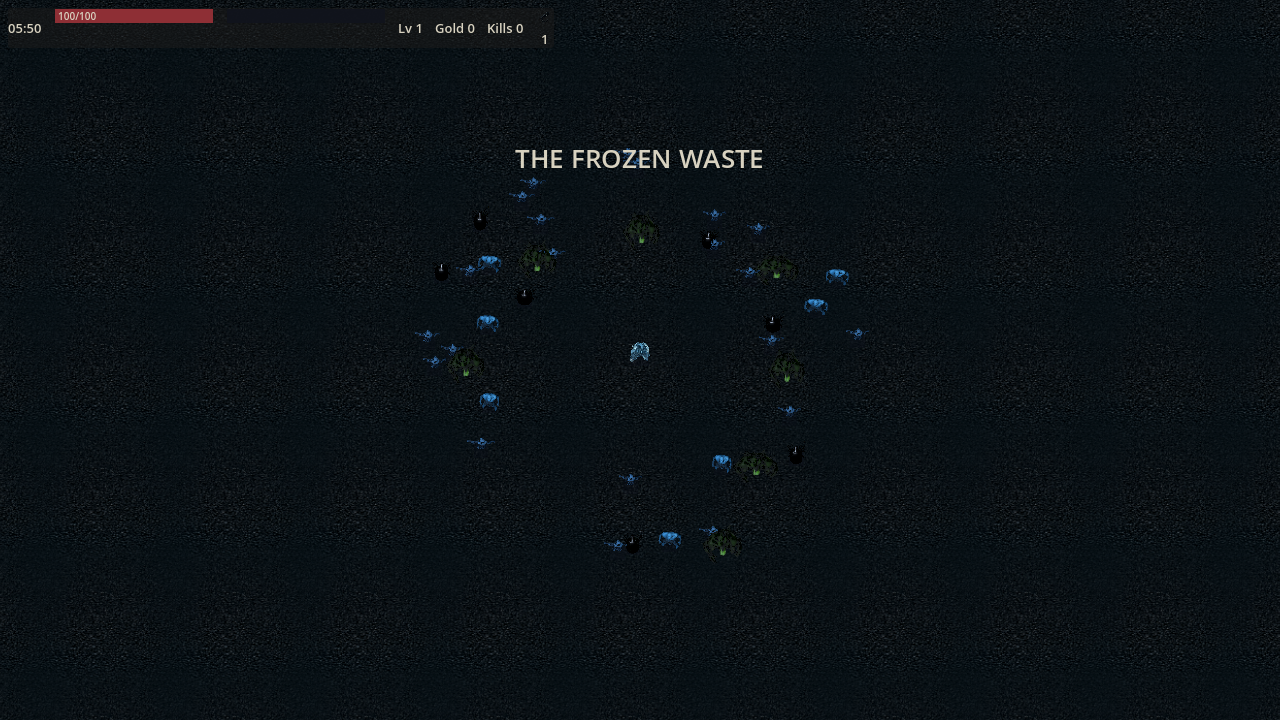
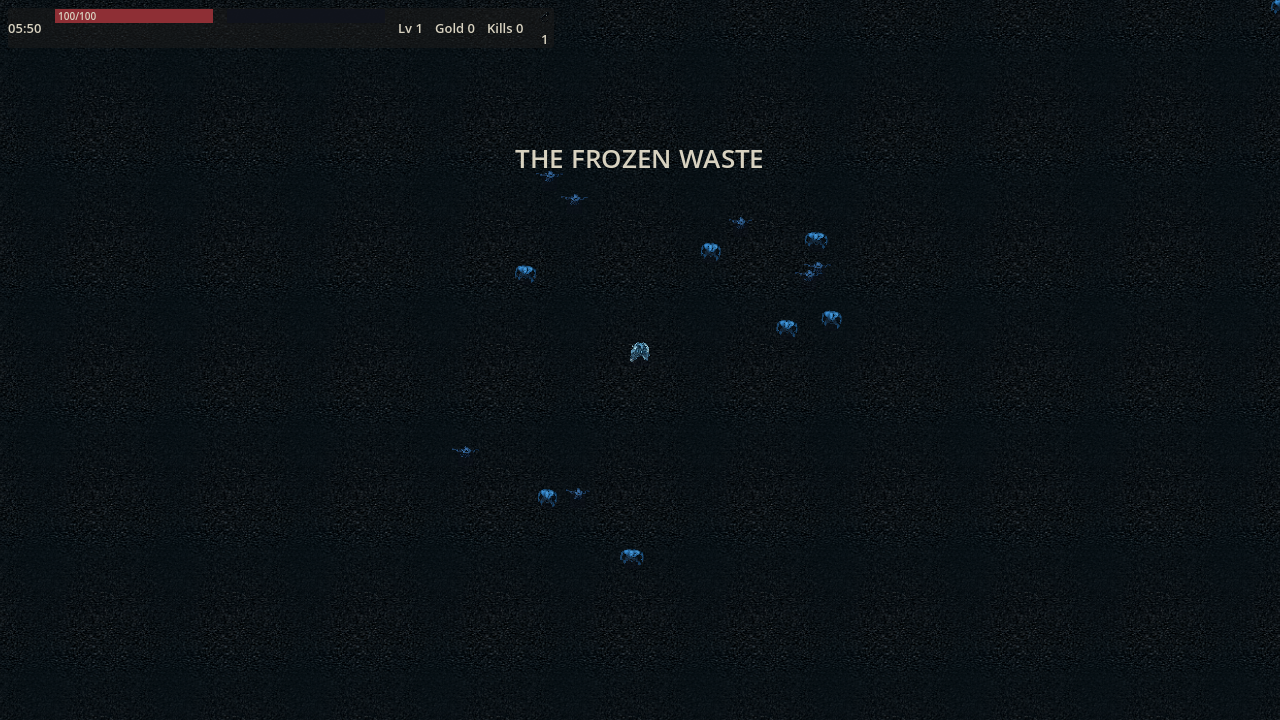
T-S15 cycle 2: tick-deterministic biome_readability capture (MC 11191)
Root cause of the flicker: the capture stage machine advanced on RENDER
frames (frame_post_draw, ~3 fps llvmpipe) while the sim still ticked in
main.gd's own _physics_process at 60 Hz. The physics ticks absorbed per
render frame are wall-clock driven, so the tick count between warp and
save differed per process: different roaming spawns, chase state and
hero HP in the shot, block_px flickered (tundra 64/16/24 unchanged tree).

Fix (sim_headless pinning pattern, MC 11112 - call-rate never dt):
- main.gd's _physics_process is switched OFF post-activation (measured:
  set_physics_process(false) BEFORE the node's first-frame activation is
  reverted by Godot 4.7.2, so the gate sits in the stage-0 callback);
  the clock advances ONLY through a fixed budget of _step(1/60) calls
  (SETTLE_TICKS=60, 1.0 in-game s per shot), identical RNG draws from
  the pinned seed every process. game.paused stays false (it would
  paint the HUD pause overlay into the shots).
- Each shot is a fresh run of its own band through the real
  _start_game funnel (WIN-gate leg pattern): cycle 1's process-
  persistent horde carpeted the tundra ground with four bands' roaming
  survivors (block-knee measured horde density: honest deterministic
  RED 1.25 ratio / 64 px block), so per-shot reset is the declared
  deviation that makes the shot read the tile + hero, not the 12/s wall.
- tools/biome_readability.py re-parses the STATE t= and refuses any
[…]

diff --git a/tools/biome_readability.py b/tools/biome_readability.py
@@ -9,6 +9,19 @@ Captures the LIVE scene at the four band times t=5/200/350/500 (one shot per
 biome) through godot/sim/biome_readability_capture.gd under xvfb real GL
 (art_capture pattern, MC 11133; seed pinned 11159), then measures per shot:
 
+DETERMINISM (cycle-2 fix, MC 11191): cycle 1 sampled the live sim at
+wall-clock-driven in-game time — the capture stages advanced on RENDER
+frames (~3 fps under llvmpipe) while the sim ticked in main.gd's own
+_physics_process at 60 Hz, so the tick count between warp and save varied
+per process and block_px flickered (tundra 64/16/24 on an unchanged tree).
+The capture now idles the tree's own tick (main.set_physics_process(false),
+the sim_headless pinning pattern MC 11112) and advances the clock ONLY
+through a fixed count of _step(1/60) calls: SETTLE_TICKS = 180 sim steps
+(= 3.0 in-game s) per shot, identical RNG draws from the pinned seed, every
+process. capture() re-parses the t= on each STATE line and refuses a shot
+whose clock moved by more than the fixed budget — the deviation is bounded
+in code, not trusted.
+
   floor_lum  mean luma (0..255) of the ground crop = rows below the HUD top
              band (y >= HUD_H: v1 hud row y 8..~48 + biome banner y 140..~175
              are HUD, not floor). Gate: <= 34.
@@ -36,6 +49,7 @@ Usage:  python3 tools/biome_readability.py            # capture + gate
 Env:    HD3D_GODOT (godot binary), HD3D_SEED (capture seed).
 """
 import os
+import re
 import subprocess
 import sys
 
@@ -49,13 +63,15 @@ GODOT = os.environ.get(
 SHOTS_DIR = os.path.join(REPO, ".tmp", "biome-readability-shots")
 SCRIPT = "res://sim/biome_readability_capture.gd"
 
-# (key, png, expected BIOMES band name, warped run-clock time)
+# (key, png, expected BIOMES band name, warp time — the clock then advances
+# only through the capture's fixed SETTLE_TICKS budget, never wall clock)
 SHOTS = [
     ("grass", "readability-grass.png", "MOORLAND", 5.0),
     ("desert", "readability-desert.png", "BURNING DUNES", 200.0),
     ("frozen", "readability-frozen.png", "THE FROZEN WASTE", 350.0),
     ("tundra", "readability-tundra.png", "DEAD TUNDRA", 500.0),
 ]
+SETTLE_TICKS = 60   # must match SETTLE_TICKS in the capture script (1.0 s)
 LUM_MAX = 34.0      # owner brief: floor mean lum <= 34
 BLOCK_MAX = 48      # feature block size <= 48 px
 RATIO_MIN = 2.0     # hero/floor luma ratio >= 2.0
@@ -82,11 +98,21 @@ def capture(shots_dir):
         print(out[-3000:])
         sys.exit("CAPTURE FAILED (no CAPTURE_OK from %s)" % SCRIPT)
     for key, png, band, t in SHOTS:
-        # t is printed at SAVE time, after the settle frames have advanced
-        # the clock a little — assert band + png, not the exact warp value.
+        # t is printed at SAVE time, after the FIXED tick budget has
+        # advanced the clock — assert band + png, and that the clock moved
+        # by at most the fixed budget (warp .. warp + SETTLE_TICKS/60);
+        # _pick() consumes budget iterations, so it may advance LESS.
         if (f"STATE {band} " not in out) or (f"shot={png}" not in out):
             sys.exit("STATE row mismatch for %s: expected band '%s' + "
                      "shot=%s in dump:\n%s" % (png, band, png, out))
+        m = re.search(r"STATE %s t=([\d.]+)" % re.escape(band), out)
+        if m is None:
+            sys.exit("no parseable t= on the %s STATE row:\n%s" % (png, out))
+        shot_t = float(m.group(1))
+        if not t <= shot_t <= t + SETTLE_TICKS / 60.0 + 1e-6:
+            sys.exit("%s: clock advanced to %.1f, outside the pinned "
+                     "budget [%.1f, %.1f] — capture is not tick-driven"
+                     % (png, shot_t, t, t + SETTLE_TICKS / 60.0))
 
 
 def block_size(gray):
